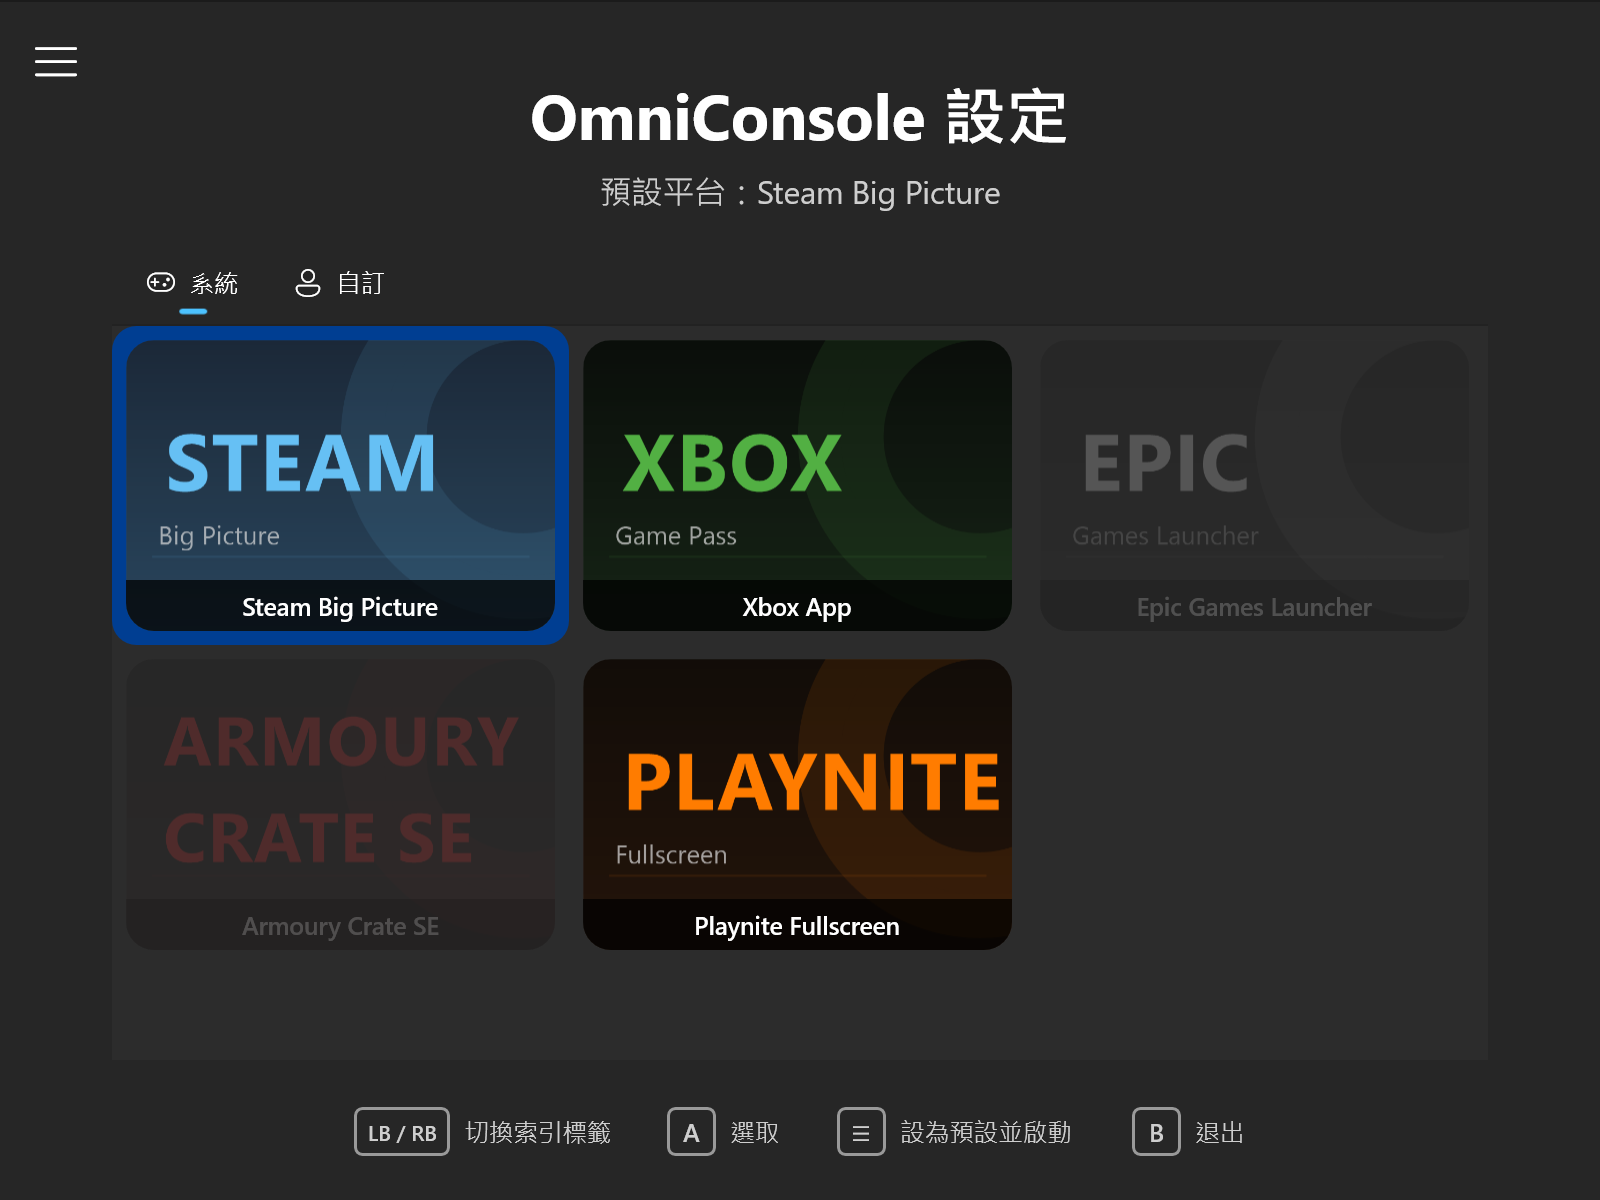
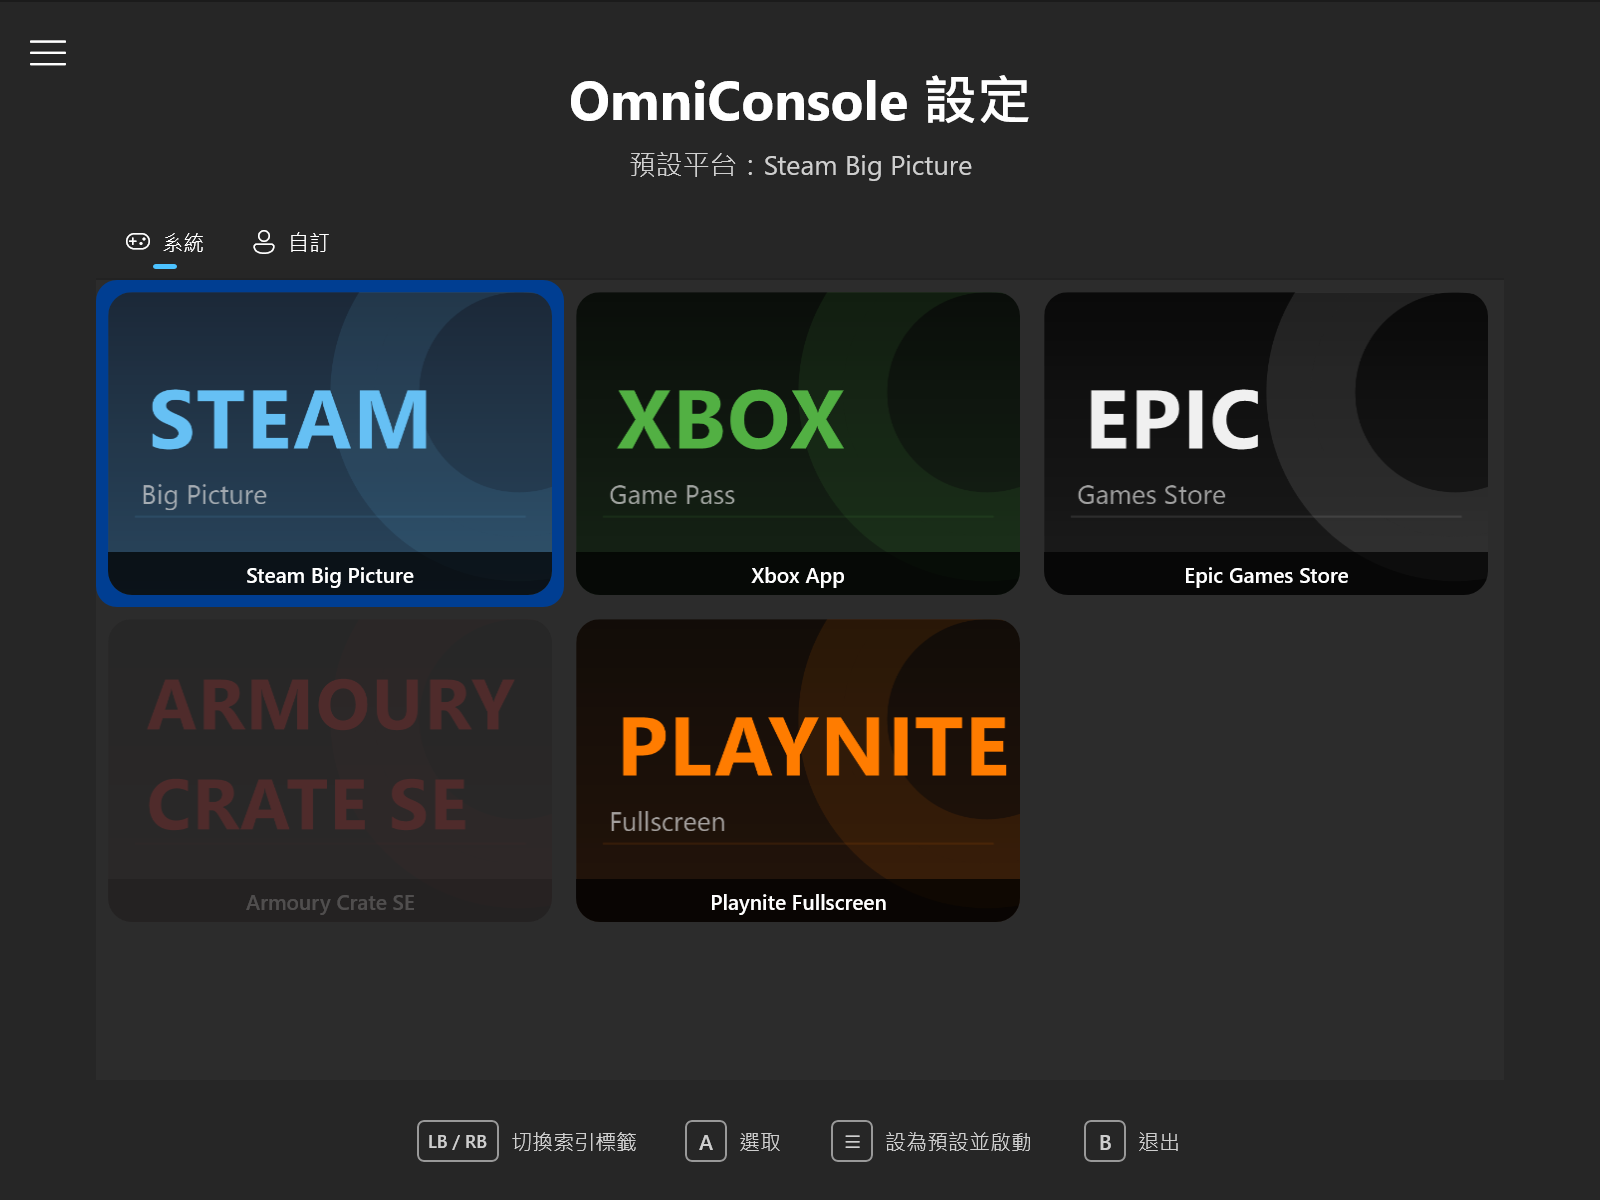
docs: Bump version to 1.7.0.0 and introduce Gamepad Mouse Mode
- Bumped the application package version to `1.7.0.0` in `Package.appxmanifest` and the GitHub issue template.
- Introduced "Gamepad Mouse Mode" in the READMEs, detailing the ability to use an Xbox controller as a mouse and keyboard in supported apps (browsers, Epic Games Store) with two available layouts (OmniNav and Classic).
- Renamed "Epic Games Launcher" to "Epic Games Store" across all documentation and templates for accuracy.
- Clarified the requirement for an Xbox-compatible (XInput) controller for FSE and Game Bar features.
- Updated Settings navigation paths to "Windows Settings" and corrected capitalization for "OmniConsole Settings" to improve clarity.
- Refreshed application settings screenshots (`docs/images/app-settings.png` and `docs/images/app-settings.zh-TW.png`) to align with the latest UI.

diff --git a/README.md b/README.md
@@ -26,7 +26,7 @@ A custom **WinUI 3 gaming platform launcher** designed to replace the default Wi
 OmniConsole serves as the Windows 11 Full Screen Experience (FSE) Home shell on your PC or handheld device (ROG Xbox Ally, etc.), launching your chosen gaming platform automatically whenever FSE is activated. The default FSE Home only supports the Xbox App — OmniConsole removes this limitation, letting you choose from:
 
 - **On boot**: With "Enter full screen experience on startup" enabled, your gaming platform launches automatically at boot.
-- **During use**: Press the **Xbox button**, then select **"Home"** in Game Bar to launch your gaming platform, or **"Library"** to open OmniConsole settings by default.
+- **During use**: Press the **Xbox button**, then select **"Home"** in Game Bar to launch your gaming platform, or **"Library"** to open OmniConsole Settings by default.
 
 ### How It Works
 
@@ -41,14 +41,15 @@ OmniConsole serves as the Windows 11 Full Screen Experience (FSE) Home shell on 
 
 - **Automatic Platform Launch** – Launches your configured gaming platform on activation.
 - **Automatic FSE Entry** – When launched outside of FSE mode (e.g., from the Start Menu), OmniConsole automatically triggers the FSE entry dialog.
-- **Multi-Platform Support** – Supports **Steam Big Picture**, **Xbox App**, **Epic Games Launcher**, **Armoury Crate SE**, and **Playnite Fullscreen**.
+- **Multi-Platform Support** – Supports **Steam Big Picture**, **Xbox App**, **Epic Games Store**, **Armoury Crate SE**, and **Playnite Fullscreen**.
 - **Custom Platform Support (Experimental)** – Supports adding your own platforms via Protocol URI, executable path, or Packaged App (MSIX / APPX / Bundle), with a card cover image. Launch arguments are available when using the executable path type.
 - **Platform Import & Export** – Supports sharing custom platform configurations as JSON. Right-click or long-press a card to export; use the Import button to import shared configurations.
 - **Gamepad-Compatible File Picker** – A custom-built file picker that replaces the system FileOpenPicker (which does not support gamepad input). Browse for executables and cover images entirely with a controller. A "Browse (Windows)" button is also available for users who prefer the legacy system file picker.
 - **Card-Grid Settings UI** – Large icon cards designed for large-screen and handheld use, operable with mouse, touch, or Xbox controller.
-- **Game Bar Integration** – Configures how Game Bar's **"Home"** and **"Library"** buttons behave: **"Home"** launches your gaming platform, **"Library"** opens OmniConsole settings by default, or passes through directly to a platform like Xbox App.
+- **Game Bar Integration** – Configures how Game Bar's **"Home"** and **"Library"** buttons behave: **"Home"** launches your gaming platform, **"Library"** opens OmniConsole Settings by default, or passes through directly to a platform like Xbox App.
 - **Troubleshoot Page** – A dedicated page for emergency FSE recovery: terminates Game Bar and enters FSE directly, bypassing the FSE confirmation dialog.
 - **Gamepad Support** – Navigate with **D-Pad** or **Left Stick**, press **A** to confirm, **B** to exit, **LB/RB** to switch category tabs, **Y** to add a custom platform, **X** to edit, and **Menu (☰)** to set the focused platform as default and launch it immediately (in FSE mode).
+- **Gamepad Mouse Mode** – Uses your gamepad as a mouse and keyboard in browsers and supported desktop apps (Edge, Chrome, Firefox, Opera, Brave, Epic Games Store). Two controller layouts available: **OmniNav** and **Classic**, with adjustable cursor speed.
 - **Gamepad Input Service** – Gamepad **⧉** button support for Steam Big Picture mode: short press to open the **Steam Menu**, long press for the **Quick Access Menu**. Long press **☰** in-game to open the **Steam In-Game Overlay**.
 - **Dedicated Settings Entry** – A separate "**OmniConsole Settings**" entry appears in All Apps, so you can change your default platform anytime.
 - **Native FSE Integration** – Registers as a Windows 11 Full Screen Experience Home App through the official FSE API.
@@ -63,6 +64,7 @@ Before installing OmniConsole, you need to enable the Windows 11 Full Screen Exp
 
 - **Desktops, Laptops, Tablets & Handhelds without native FSE**: Use [Xbox Full Screen Experience Tool](https://github.com/8bit2qubit/XboxFullScreenExperienceTool) to enable FSE first.
 - **Native FSE Handheld Devices** (e.g., ROG Xbox Ally series): FSE is natively supported. Install OmniConsole directly.
+- **Xbox controller required**: Game Bar, FSE, and all gamepad features require an Xbox-compatible (XInput) controller with an Xbox button.
 
 ---
 
@@ -70,7 +72,7 @@ Before installing OmniConsole, you need to enable the Windows 11 Full Screen Exp
 
 ### 1. Install OmniConsole
 
-1.  **[Critical]** Go to **Settings → System → Advanced** and enable **Developer Mode**.
+1.  **[Critical]** Go to **Windows Settings → System → Advanced** and enable **Developer Mode**.
 2.  Download the latest `.msix` package and `.cer` certificate from the [**Releases Page**](https://github.com/8bit2qubit/OmniConsole/releases/latest).
 3.  **[Critical]** Double-click the `.cer` file → click **Install Certificate** → Store Location: **Local Machine** → **Place all certificates in the following store** → Browse → select **Trusted People** → Finish.
 4.  Double-click the `.msix` file to install.
@@ -83,7 +85,7 @@ OmniConsole will present the Settings UI on **first launch** or **after app upda
 2.  Select your preferred gaming platform from the card grid using a **mouse**, **touch**, or **Xbox controller** (**D-Pad/Left Stick** to navigate in all four directions, **A** to confirm):
     - **Steam Big Picture**
     - **Xbox App**
-    - **Epic Games Launcher**
+    - **Epic Games Store**
     - **Armoury Crate SE**
     - **Playnite Fullscreen**
 
@@ -103,7 +105,7 @@ OmniConsole will present the Settings UI on **first launch** or **after app upda
 
 Your gaming platform now launches via any of these entry points:
 
-- **Game Bar**: Press the **Xbox button**, then select **"Home"** to launch your gaming platform, or **"Library"** to open OmniConsole settings by default.
+- **Game Bar**: Press the **Xbox button**, then select **"Home"** to launch your gaming platform, or **"Library"** to open OmniConsole Settings by default.
 - **Boot**: Enable **"Enter full screen experience on startup"** for automatic launch at boot.
 - **Start Menu**: Launch OmniConsole directly to automatically activate the Full Screen Experience (FSE).
 

diff --git a/README.zh-TW.md b/README.zh-TW.md
@@ -41,7 +41,7 @@ OmniConsole 作為 Windows 11 全螢幕體驗 (FSE) 首頁殼層，在您的 PC 
 
 - **自動平台啟動** – 啟動時自動開啟已設定的遊戲平台。
 - **自動進入 FSE** – 在 FSE 模式外啟動（如從開始功能表），OmniConsole 會自動觸發 FSE 進入對話方塊。
-- **多平台支援** – 支援 **Steam Big Picture**、**Xbox App**、**Epic Games Launcher**、**Armoury Crate SE** 與 **Playnite Fullscreen**。
+- **多平台支援** – 支援 **Steam Big Picture**、**Xbox App**、**Epic Games Store**、**Armoury Crate SE** 與 **Playnite Fullscreen**。
 - **自訂平台支援（實驗性功能）** – 透過 Protocol URI、執行檔路徑或封裝套件 (MSIX / APPX / Bundle) 新增自訂平台，可選填卡片封面圖。啟動參數僅在使用執行檔路徑類型時可用。
 - **平台匯入與匯出** – 以 JSON 格式分享自訂平台配置。對卡片按右鍵或長按即可匯出；透過匯入按鈕可匯入他人分享的配置。
 - **支援手把操作的檔案選擇器** – 自製檔案選擇器，取代不支援手把的系統 FileOpenPicker。瀏覽執行檔與封面圖片可完全透過控制器操作。同時提供「瀏覽 (Windows)」按鈕，供偏好舊式體驗的使用者開啟系統檔案選擇器。
@@ -49,6 +49,7 @@ OmniConsole 作為 Windows 11 全螢幕體驗 (FSE) 首頁殼層，在您的 PC 
 - **Game Bar 整合** – 自訂 Game Bar「**首頁**」與「**媒體櫃**」按鈕的行為：「**首頁**」啟動遊戲平台、「**媒體櫃**」預設開啟 OmniConsole 設定，或直接導向 Xbox App 等平台。
 - **疑難排解頁面** – 專屬頁面提供緊急修復途徑：結束 Game Bar 並繞過 FSE 確認對話方塊，直接進入 FSE。
 - **手把支援** – 使用**方向鍵**或**左搖桿**導覽，**A 鍵**確認、**B 鍵**退出、**LB/RB** 切換分類索引標籤、**Y 鍵**新增自訂平台、**X 鍵**編輯、**Menu（☰）鍵**將聚焦平台設為預設並立即啟動（在 FSE 模式中）。
+- **手把滑鼠模式** – 在瀏覽器與支援的桌面應用程式（Edge、Chrome、Firefox、Opera、Brave、Epic Games Store）中，以手把作為滑鼠與鍵盤使用。提供兩種控制器版面配置：**OmniNav** 和 **Classic**，可調整游標速度。
 - **手把輸入服務** – 為 Steam Big Picture 模式提供手把 **⧉** 按鍵支援：短按開啟 **Steam 選單**，長按喚出**快速存取選單**。在遊戲中長按 **☰** 可開啟 **Steam 遊戲內嵌介面**。
 - **專屬設定入口** – 在「所有應用程式」中獨立顯示「**OmniConsole 設定**」，隨時可更改預設平台。
 - **原生 FSE 整合** – 透過 Windows 11 全螢幕體驗 API 註冊為首頁應用程式。
@@ -63,6 +64,7 @@ OmniConsole 作為 Windows 11 全螢幕體驗 (FSE) 首頁殼層，在您的 PC 
 
 - **桌機、筆電、平板及未內建 FSE 的掌機**：請先使用 [Xbox Full Screen Experience Tool](https://github.com/8bit2qubit/XboxFullScreenExperienceTool) 啟用 FSE 功能。
 - **原生 FSE 掌機裝置**（如 ROG Xbox Ally 系列）：已原生支援 FSE，可直接安裝 OmniConsole。
+- **需要 Xbox 手把**：Game Bar、FSE 以及所有手把功能皆需使用具備 Xbox 按鈕的 XInput 相容控制器。
 
 ---
 
@@ -83,7 +85,7 @@ OmniConsole 會在**首次啟動**或**應用程式更新後**彈出設定介面
 2.  從卡片網格中選擇您偏好的遊戲平台。支援使用**滑鼠**、**觸控**或 **Xbox 手把**（**方向鍵/左搖桿**四向移動，**A 鍵**確認）：
     - **Steam Big Picture**
     - **Xbox App**
-    - **Epic Games Launcher**
+    - **Epic Games Store**
     - **Armoury Crate SE**
     - **Playnite Fullscreen**
 
@@ -95,7 +97,7 @@ OmniConsole 會在**首次啟動**或**應用程式更新後**彈出設定介面
   <img src="docs/images/fse-settings.zh-TW.png" alt="Windows 全螢幕體驗設定" height="221">
 </p>
 
-1.  前往**設定 → 遊戲 → 全螢幕體驗**。
+1.  前往**Windows 設定 → 遊戲 → 全螢幕體驗**。
 2.  將「選擇首頁應用程式」設為 **OmniConsole**。
 3.  啟用「**啟動時進入全螢幕體驗**」（**強烈建議**）。
 
